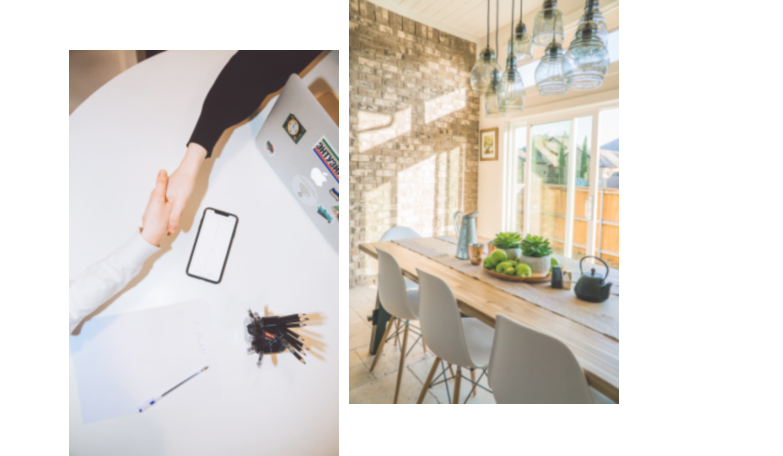
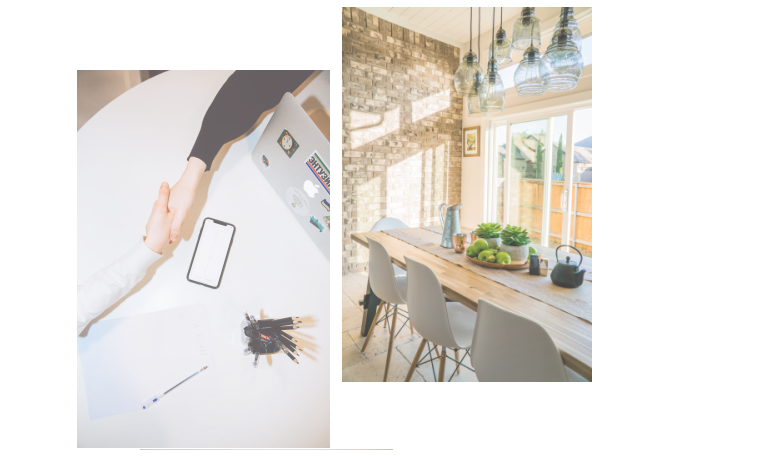
会社概要ページ修正

Changed region(s): [[0.0613, 0.0, 0.7969, 1.0], [0.2146, 0.8289, 0.2452, 0.8596], [0.1839, 0.8596, 0.2146, 0.8904]]

diff --git a/company/index.html b/company/index.html
@@ -211,7 +211,7 @@
 			<ul class="list">
 				<li class="item" data-pararax01-opacity05="0.0">
 					<h5>
-						<img src="../img/company/link_service.jpg" alt="事業内容" class="pc_only">
+						<img src="../img/company/1772929_l.jpg" alt="事業内容" class="pc_only">
 						<img src="../img/company/link_service_sp.jpg" alt="事業内容" class="sp_only">
 					</h5>
 					<div class="content">

diff --git a/s_css/servicef606.css b/s_css/servicef606.css
@@ -48,7 +48,7 @@ header ul li:nth-of-type(1) a {
 .service_mv {
 	position: relative;
 	padding-top: 37.5%;
-	background-image: url("../img/top_service_header.jpg");
+	background-image: url("../img/1772928_l.jpg");
 	background-repeat: no-repeat;
 	background-position: center top;
 	background-size: 100% auto;
